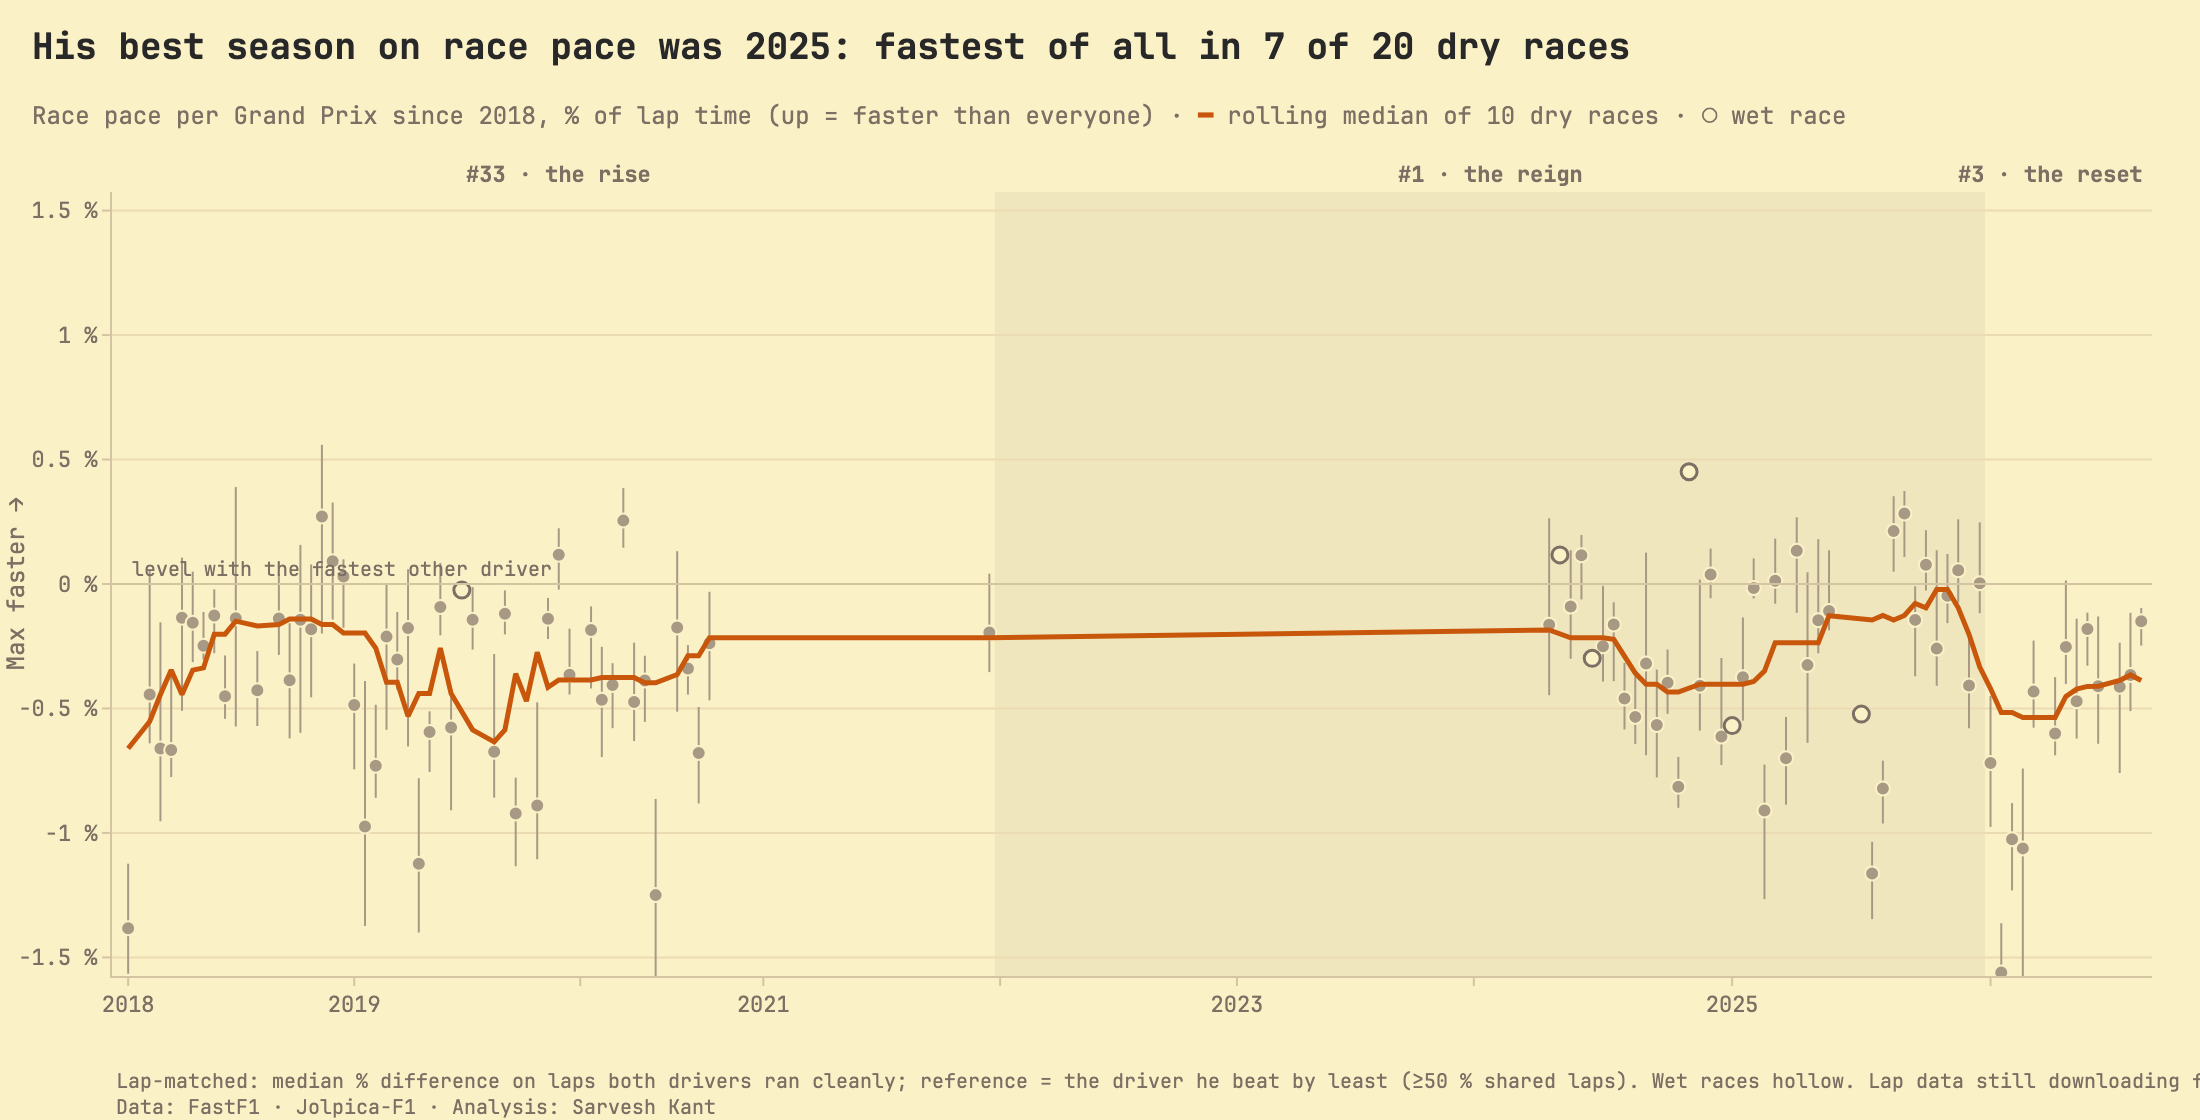
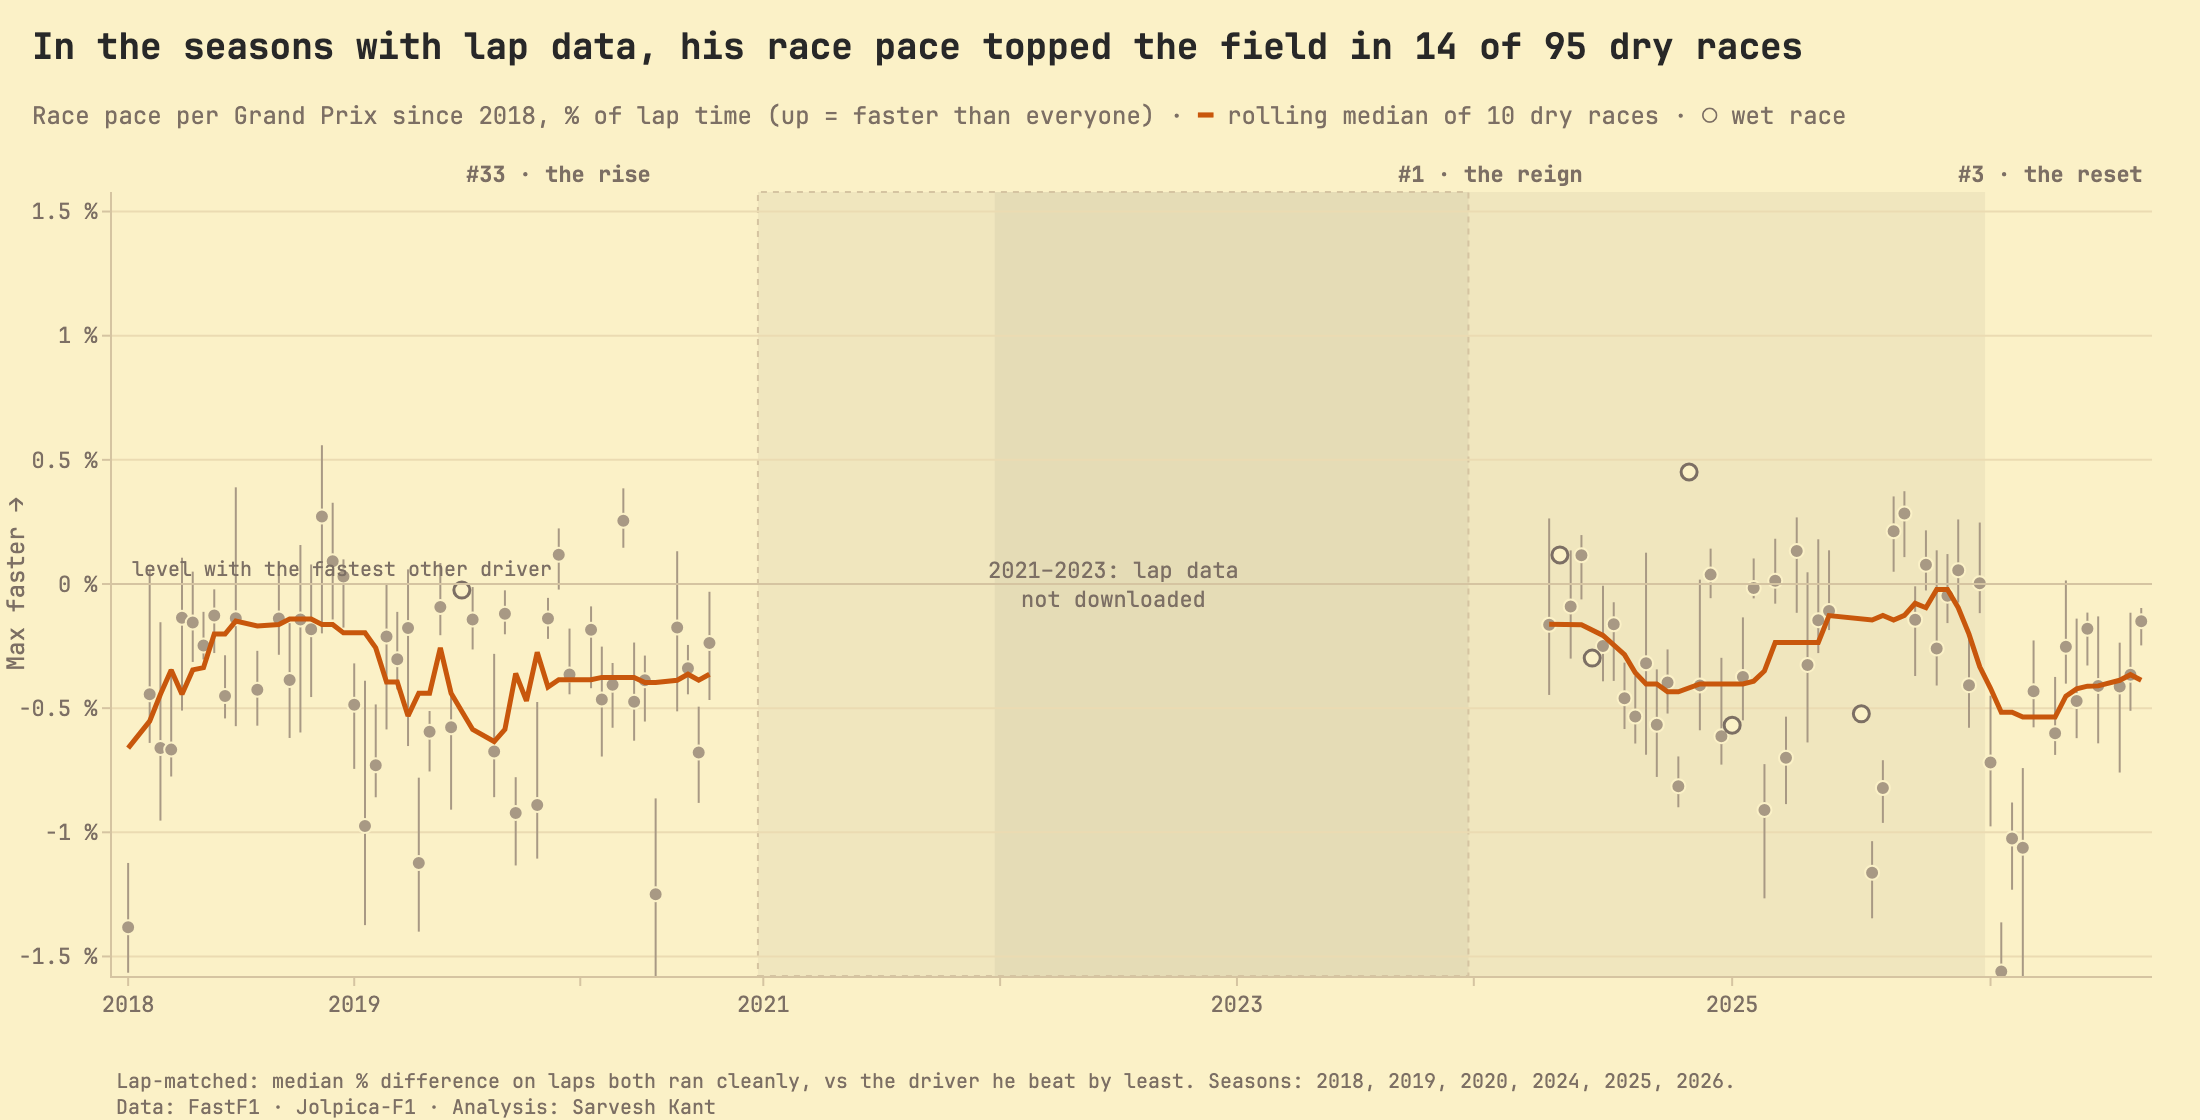
chart: C07/C09 show the 2021-2023 lap-data gap honestly after download was stopped

diff --git a/src/charts/c07_dominance.py b/src/charts/c07_dominance.py
@@ -9,6 +9,9 @@ Encodings: x = race number (same axis as C01, from 2018); y = his lap-matched pa
   resampled within the race); hollow = wet race (excluded from
   the line); accent line = rolling median over 10 dry races.
 Interactivity: hover → race, delta, CI, who the best other driver was, n laps.
+Coverage: lap data was downloaded for 2018–2020 and 2024–2026 only (the full
+  download was stopped by choice); 2021–2023 is drawn as a labelled gap and the
+  title only speaks about covered races.
 Caveats: the reference is the *fastest other driver that day*, a hard bar; a
   leader managing a gap, different tyre strategies and traffic all move medians.
   Clean laps exclude lap 1, pit laps, SC/VSC/red-flag laps (see stats.clean_laps).
@@ -20,6 +23,17 @@ import plotly.graph_objects as go
 
 from src import features, theme
 from src.charts.common import add_era_bands, gp_sequence, season_ticks
+
+
+def _runs(years: list[int]) -> list[tuple[int, int]]:
+    """[2021, 2022, 2023, 2025] → [(2021, 2023), (2025, 2025)]."""
+    out: list[tuple[int, int]] = []
+    for y in sorted(years):
+        if out and y == out[-1][1] + 1:
+            out[-1] = (out[-1][0], y)
+        else:
+            out.append((y, y))
+    return out
 
 
 def data(tables: dict):
@@ -35,6 +49,11 @@ def build(tables: dict, mode: str = "dark") -> go.Figure:
     gp, dom = data(tables)
     names = tables["field_results"].drop_duplicates("driver_code").set_index("driver_code")["family_name"]
     gp18 = gp[gp.season >= int(dom.season.min())]
+
+    races_by = gp18.groupby("season").size()
+    cov = dom.groupby("season").size().reindex(races_by.index, fill_value=0) / races_by
+    gaps = [int(x) for x in cov[cov < 0.5].index]
+    dom = dom[~dom.season.isin(gaps)]  # a lone race inside an uncovered season would mislead
 
     fig = go.Figure()
     add_era_bands(fig, gp18, mode)
@@ -56,24 +75,33 @@ def build(tables: dict, mode: str = "dark") -> go.Figure:
                              marker=dict(size=7, color=t["field"], line=dict(color=t["bg"], width=1))))
     fig.add_trace(go.Scatter(x=wet.i, y=wet.adv, mode="markers", customdata=cd(wet), hovertemplate=tpl + "",
                              marker=dict(size=8, color=t["bg"], line=dict(color=t["muted"], width=1.5))))
-    roll = dry.set_index("i")["adv"].rolling(10, min_periods=5, center=True).median()
-    fig.add_trace(go.Scatter(x=roll.index, y=roll.values, mode="lines", line=dict(color=t["max"], width=2.5),
-                             hoverinfo="skip"))
+    # rolling median per covered block, so the line never bridges the gap
+    block = (dry.season.isin(gaps) | (dry.season.diff().fillna(0) > 1)).cumsum()
+    for _, b in dry.groupby(block):
+        roll = b.set_index("i")["adv"].rolling(10, min_periods=5, center=True).median()
+        fig.add_trace(go.Scatter(x=roll.index, y=roll.values, mode="lines", line=dict(color=t["max"], width=2.5),
+                                 hoverinfo="skip"))
 
-    share = dry.groupby("season").adv.apply(lambda a: (a > 0).mean())
-    n_by = dry.groupby("season").size()
-    best = share.idxmax()
-    k, n = int(round(share[best] * n_by[best])), int(n_by[best])
-    title = f"His best season on race pace was {best}: fastest of all in {k} of {n} dry races"
+    # Coverage: seasons with lap data for under half their races are shown as a labelled gap, and the
+    # title only makes claims about covered races (Sarvesh chose not to download the rest, 2026-09-29).
+    for s0, s1 in _runs(gaps):
+        x0 = gp18[gp18.season == s0].i.min() - 0.5
+        x1 = gp18[gp18.season == s1].i.max() + 0.5
+        fig.add_vrect(x0=x0, x1=x1, fillcolor=t["band"], line=dict(color=t["axis"], width=1, dash="dot"),
+                      layer="below")
+        fig.add_annotation(x=(x0 + x1) / 2, y=0.5, yref="paper", showarrow=False,
+                           text=f"{s0}–{s1}: lap data<br>not downloaded" if s1 != s0 else f"{s0}: lap data<br>not downloaded",
+                           font=dict(size=11, color=t["muted"]))
+    k, n = int((dry.adv > 0).sum()), len(dry)
+    covered = sorted(int(x) for x in cov[cov >= 0.5].index)
+    title = f"In the seasons with lap data, his race pace topped the field in {k} of {n} dry races"
 
     ticks, labels = season_ticks(gp18)
     lim = float(np.nanquantile(dom.adv.abs(), 0.97)) + 0.2
     fig.update_xaxes(tickvals=ticks, ticktext=labels, showgrid=False, range=[gp18.i.min() - 1.5, gp18.i.max() + 1])
     fig.update_yaxes(range=[-lim, lim], ticksuffix=" %", title=dict(text="Max faster →", standoff=4))
-    missing = sorted(set(gp18.season) - set(dom.season))
-    note = "Lap-matched: median % difference on laps both drivers ran cleanly; reference = the driver he beat by least (≥50 % shared laps). Wet races hollow."
-    if missing:
-        note += f" Lap data still downloading for: {', '.join(map(str, missing))}."
+    note = ("Lap-matched: median % difference on laps both ran cleanly, vs the driver he beat by least. "
+            f"Seasons: {', '.join(map(str, covered))}.")
     return theme.finish(
         fig, mode, title,
         f"Race pace per Grand Prix since {int(dom.season.min())}, % of lap time (up = faster than everyone) · "

diff --git a/src/charts/c09_reset.py b/src/charts/c09_reset.py
@@ -54,6 +54,11 @@ def build(tables: dict, mode: str = "dark") -> go.Figure:
                                              symbol=["triangle-down" if p else "circle" for p in pinned]),
                                  hovertemplate="%{customdata}: " + fmt + "<extra></extra>"), row=1, col=col)
         med = df.groupby("season").v.median()
+        if col == 3:
+            for sn in seasons:
+                if sn not in med.index:
+                    fig.add_annotation(x=sn, y=0.5, yref="y3 domain", text="no lap<br>data", showarrow=False,
+                                       font=dict(size=9.5, color=t["muted"]), row=1, col=col)
         fig.add_trace(go.Scatter(x=med.index, y=med.values, mode="markers",
                                  marker=dict(symbol="line-ew", size=26, line=dict(color=t["max"], width=3)),
                                  hovertemplate="%{x} median: " + fmt + "<extra></extra>"), row=1, col=col)

diff --git a/CLAUDE.md b/CLAUDE.md
@@ -51,6 +51,10 @@ with the predictor repo, and make the difference obvious in README and website c
   Website integration deferred until the charts are complete.
   C06 duel = 2025 Japanese GP qualifying, Max vs Norris. C05 circuits chosen from data (six most-won since 2018).
   C14 built and cut (lap-1 gains mostly reflect grid slot).
+- **2026-09-29 · Lap download stopped by Sarvesh at 111/188 races.** Coverage: 2018–2020, 2024–2026 (2021: 1 race,
+  2022–2023: none). C07 shows 2021–2023 as a labelled gap and only claims things about covered races; the reign's
+  dominance is told with Jolpica-based charts (C11, C09 qualifying panel). Do not restart the bulk download
+  unless asked.
 - **2026-09-29 · Git.** Commit locally per milestone; create the GitHub remote and push at CHECKPOINT 1.
 
 ---
